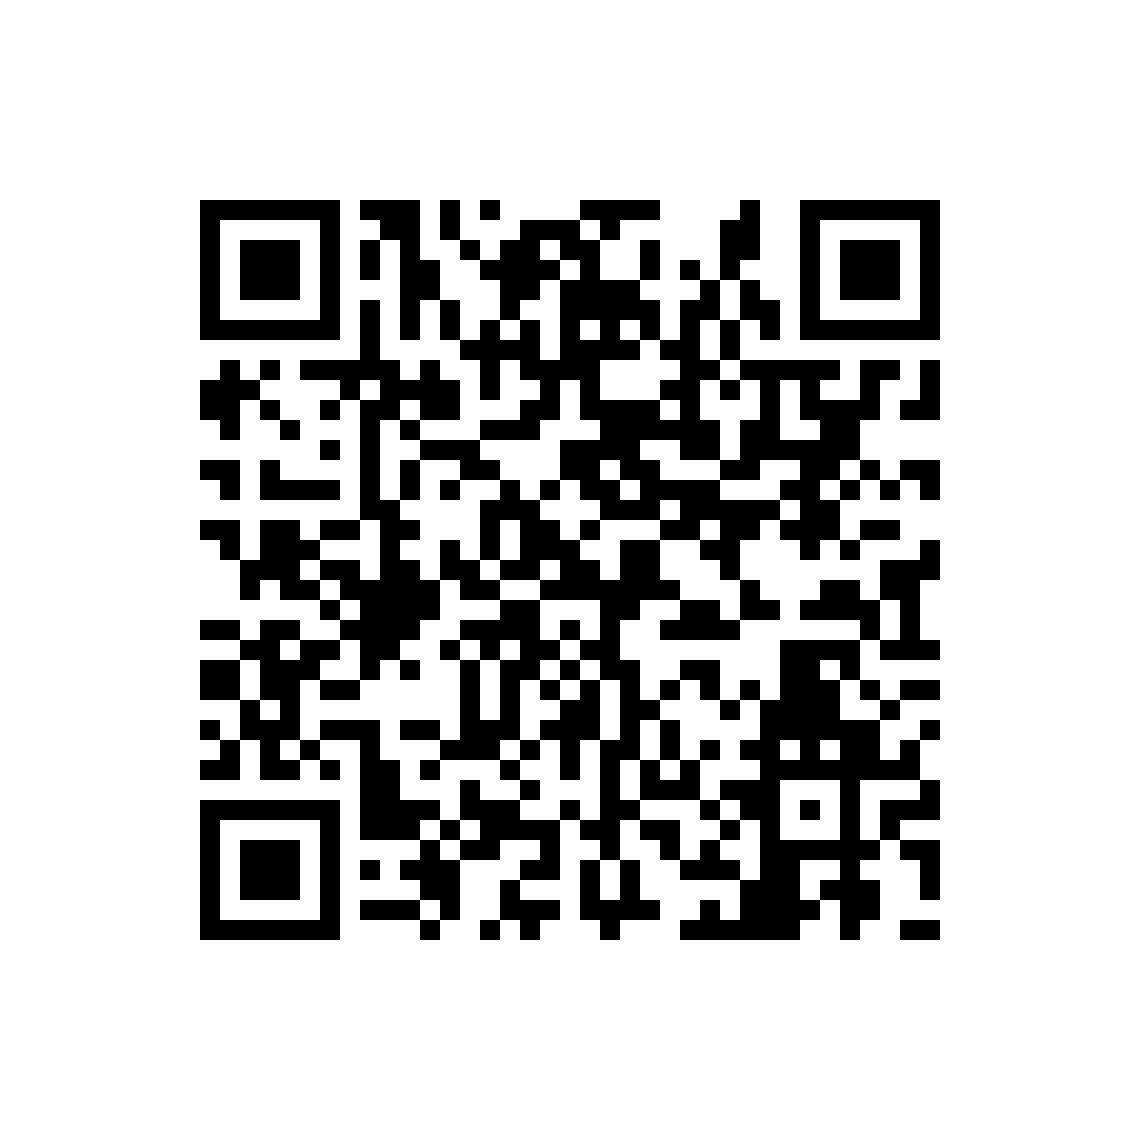
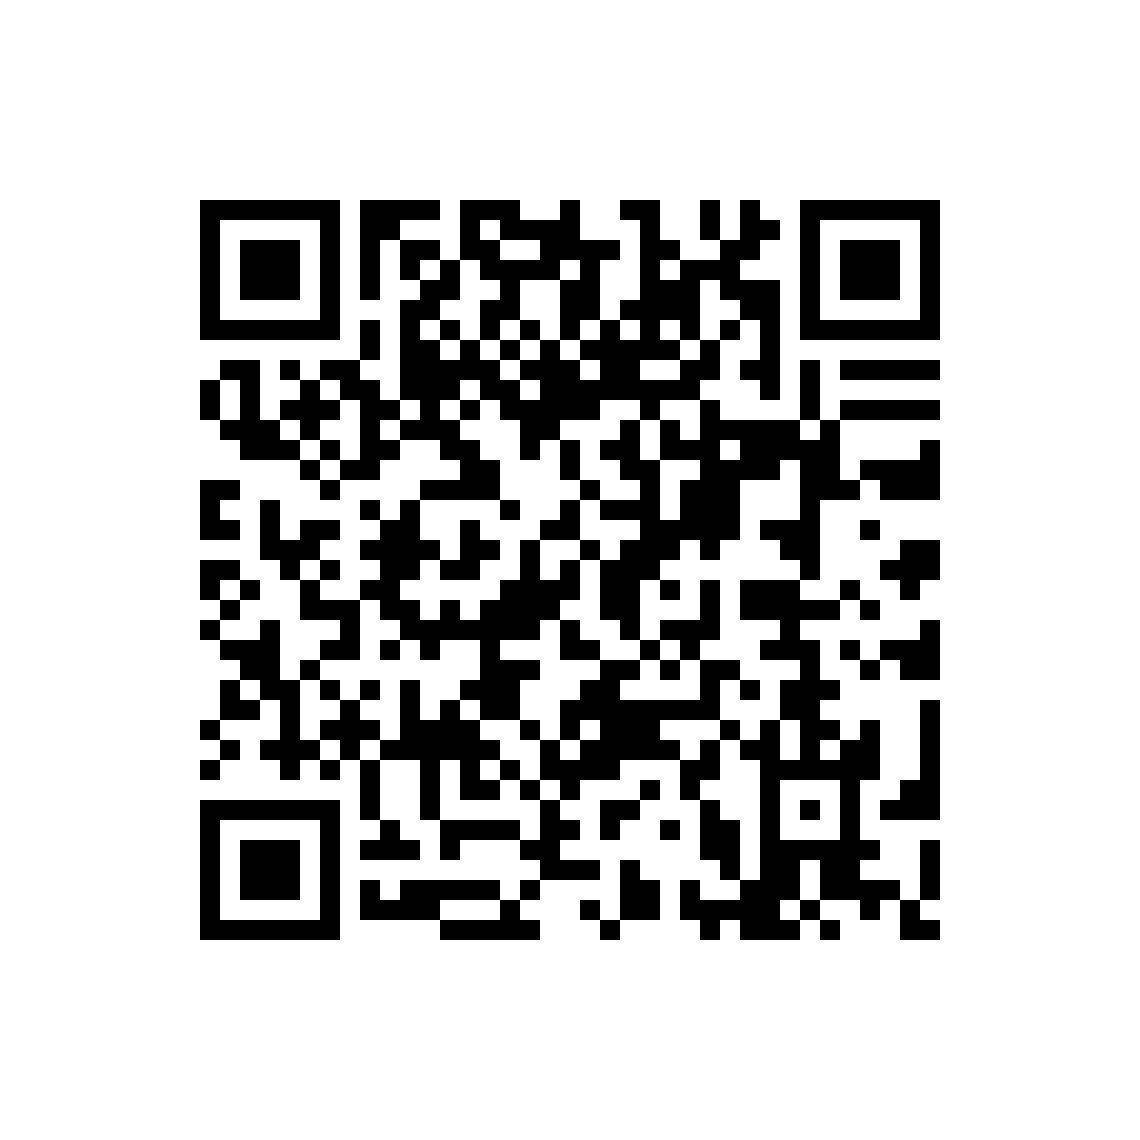
更新11.23

Changed region(s): [[0.1535, 0.1535, 0.8289, 0.8289], [0.7061, 0.7368, 0.7368, 0.7675]]

diff --git a/index.html b/index.html
@@ -782,15 +782,15 @@ function closeZfb(){
     <a href="denuvo.html" class="more-btn">查看更多 →</a>
     </div>
     <div class="game-list">
-<a href="phantombladezero.html" target="_blank" class="game-card">
-    <div class="pic">
-        <img src="img/newgame/1073.jpg" alt="影之刃零" style="width:100%;height:100%;object-fit:cover;">
-    </div>
-    <div class="info">
-        <h3>影之刃零</h3>
-        <p>D加密 · Denuvo</p>
-    </div>
-</a>
+            <a href="wildlands.html" target="_blank" class="game-card">
+                <div class="pic">
+                    <img src="img/01.jpg" alt="幽灵行动：荒野" style="width:100%;height:100%;object-fit:cover;">
+                </div>
+                <div class="info">
+                    <h3>幽灵行动：荒野</h3>
+                    <p>D加密 · Denuvo</p>
+                </div>
+            </a>
 <a href="planetzoo2.html" target="_blank" class="game-card">
     <div class="pic">
         <img src="img/newgame/1075.jpg" alt="动物园之星2" style="width:100%;height:100%;object-fit:cover;">
@@ -835,22 +835,22 @@ function closeZfb(){
     <a href="hot.html" class="more-btn">查看更多 →</a>
     </div>
     <div class="game-list">
-            <a href="cyberpunk2077.html" target="_blank" class="game-card">
-                <div class="pic">
-                    <img src="img/hot/22.jpg" alt="赛博朋克2077">
-                </div>
-                <div class="info">
-                    <h3>赛博朋克2077</h3>
-                    <p>赛博开放世界【更新2.5版本】</p>
-                </div>
-            </a>
+<a href="phantombladezero.html" target="_blank" class="game-card">
+    <div class="pic">
+        <img src="img/newgame/1073.jpg" alt="影之刃零" style="width:100%;height:100%;object-fit:cover;">
+    </div>
+    <div class="info">
+        <h3>影之刃零</h3>
+        <p>无需虚拟机 · VOICES38版</p>
+    </div>
+</a>
     <a href="wukong.html" target="_blank" class="game-card">
         <div class="pic">
             <img src="img/05.jpg" alt="黑神话：悟空">
         </div>
         <div class="info">
             <h3>黑神话：悟空</h3>
-            <p>近期高人气</p>
+            <p>无需虚拟机 · VOICES38版</p>
         </div>
     </a>
     <a href="reddesert.html" target="_blank" class="game-card">
@@ -858,8 +858,8 @@ function closeZfb(){
             <img src="img/06.jpg" alt="红色沙漠">
         </div>
         <div class="info">
-            <h3>红色沙漠【无需虚拟机】</h3>
-            <p>近期高人气</p>
+            <h3>红色沙漠</h3>
+            <p>无需虚拟机 · VOICES38版</p>
         </div>
     </a>
             <a href="stellarblade.html" target="_blank" class="game-card">

diff --git a/phantombladezero.html b/phantombladezero.html
@@ -24,7 +24,7 @@ h1{font-size:26px;margin-bottom:8px}
 </style>
 </head>
 <body>
-<a href="denuvo.html" class="back">← 返回D加密游戏分区</a>
+<a href="hot.html" class="back">← 返回热门游戏分区</a>
 <img class="cover" src="img/newgame/1073.jpg" alt="影之刃零">
 <h1>影之刃零</h1>
 <div class="info-block">
@@ -33,7 +33,7 @@ h1{font-size:26px;margin-bottom:8px}
 <p>简介：你将化身心脏遭受重创的剑客，在仅余六十六天的生命里，逃亡于刀光剑影和腥风血雨之间，并粉碎一桩笼罩在整个武林上方的惊天阴谋。在失序末法的武林中以身证道，以命寻心。</p>
 </div>
 <div class="dl-group">
-<button class="dl-btn baidu" onclick="openModal('img/phantombladezero/baidu_qr.jpg')">百度网盘 提取码：e7qy</button>
+<button class="dl-btn baidu" onclick="openModal('img/phantombladezero/baidu_qr.jpg')">百度网盘 提取码：bef1</button>
 <button class="dl-btn quark" onclick="openModal('img/phantombladezero/quark_qr.jpg')">夸克网盘</button>
 </div>
 <div class="modal" id="qrModal">

diff --git a/hot.html b/hot.html
@@ -118,6 +118,15 @@
         <h2 class="page-title">热门游戏分区</h2>
         <div class="game-list">
             <!-- 首页四款原有封面保留img/05~08 -->
+<a href="phantombladezero.html" target="_blank" class="game-card">
+    <div class="pic">
+        <img src="img/newgame/1073.jpg" alt="影之刃零" style="width:100%;height:100%;object-fit:cover;">
+    </div>
+    <div class="info">
+        <h3>影之刃零</h3>
+        <p>D加密 · Denuvo</p>
+    </div>
+</a>
 <a href="starwarsgalacticracer.html" target="_blank" class="game-card">
     <div class="pic">
         <img src="img/newgame/1074.jpg" alt="星球大战：银河赛车手" style="width:100%;height:100%;object-fit:cover;">

diff --git a/denuvo.html b/denuvo.html
@@ -131,15 +131,6 @@
         <p>D加密 · Denuvo</p>
     </div>
 </a>
-<a href="phantombladezero.html" target="_blank" class="game-card">
-    <div class="pic">
-        <img src="img/newgame/1073.jpg" alt="影之刃零" style="width:100%;height:100%;object-fit:cover;">
-    </div>
-    <div class="info">
-        <h3>影之刃零</h3>
-        <p>D加密 · Denuvo</p>
-    </div>
-</a>
 <a href="planetzoo2.html" target="_blank" class="game-card">
     <div class="pic">
         <img src="img/newgame/1075.jpg" alt="动物园之星2" style="width:100%;height:100%;object-fit:cover;">
